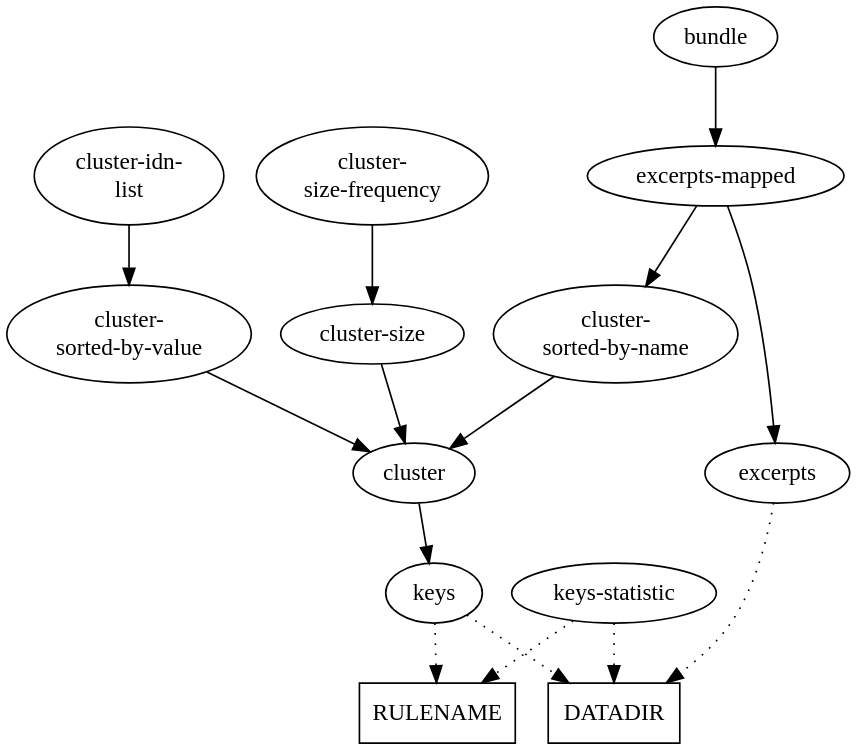
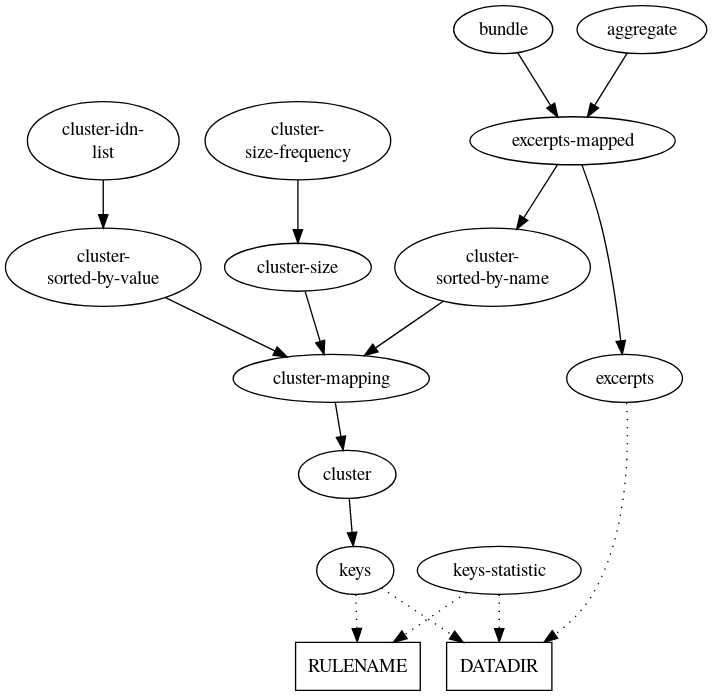
Update workflow

diff --git a/workflow-stub/README.md b/workflow-stub/README.md
@@ -29,18 +29,18 @@ make help
 ```
 
 ```bash
+# Build every possible target
+make all RULENAME=wrk DATADIR=/opt/data
+```
+
+```bash
 # Compute keys
 make keys RULENAME=wrk DATADIR=/opt/data
 ```
 
 ```bash
-# Compute keys-statistic
-make keys-statistic RULENAME=wrk DATADIR=/opt/data
-```
-
-```bash
-# Compute cluster (sorted by name)
-make cluster-sorted-by-name RULENAME=wrk DATADIR=/opt/data
+# Compute cluster-mapping
+make cluster-mapping RULENAME=wrk DATADIR=/opt/data
 ```
 
 ```bash
@@ -49,8 +49,8 @@ make cluster-idn-list RULENAME=wrk DATADIR=/opt/data
 ```
 
 ```bash
-# Build XML with bundles excerpts
-make bundle RULENAME=wrk DATADIR=/opt/data
+# Build export XML
+make aggregate RULENAME=wrk DATADIR=/opt/data
 ```
 
 ## Options
@@ -61,15 +61,15 @@ Each target creates a file or runs multiple dependencies.
 | --- | --- |
 | all | Build all possible targets. |
 | keys | Constructs (match-)keys for each record. |
-| cluster | Maps related records into clusters. |
-| bundle | Constructs a XML file that contains grouped MARCXML excerpts according to the computed clustering. |
-| solr | Constructs a XML file that contains index updates for Apache Solr. One file contains documents, the other contains document updates with cluster tags. |
-
+| cluster-mapping | Filters the previously computed clustering. Maps record ids to cluster ids. |
+| bundle | XML file that contains cluster information (a so-called *bundle*). Each cluster element contains all records found in the corresponding cluster. The record information are limited to an excerpt. |
+| aggregate | MARCXML file that contains one record element per cluster. Each record element aggregates the information of all records in a cluster. The record information are limited to an excerpt. |
 
 There are also the following targets available:
 
 | Target | Description |
 | --- | --- |
+| cluster | Build a graph based on the output of *keys*. A breadth first search computes all connected components (so-called *cluster*). Outputs the bfs-graph as GraphML file.
 | cluster-idn-list | Build a file that collects the ids for each cluster. One cluster per line. |
 | cluster-size | Builds a table that contains the cluster number and the corresponding cluster size. |
 | cluster-size-frequency | Builds a table that contains the cluster size and the corresponding frequency. |
@@ -112,6 +112,7 @@ digraph Makefile {
     ]
     
     keys_statistic [ label = "keys-statistic" ]
+    cluster_mapping [ label = "cluster-mapping" ]
     cluster_sorted_by_name [ label = "cluster-\nsorted-by-name" ]
     cluster_sorted_by_value [ label = "cluster-\nsorted-by-value" ]
     cluster_idn_list [ label = "cluster-idn-\nlist" ]
@@ -125,14 +126,16 @@ digraph Makefile {
     keys_statistic -> rulename [ style = dotted ]
 
     cluster -> keys
-    cluster_sorted_by_name -> cluster
-    cluster_sorted_by_value -> cluster
+    cluster_mapping -> cluster
+    cluster_sorted_by_name -> cluster_mapping
+    cluster_sorted_by_value -> cluster_mapping
     cluster_idn_list -> cluster_sorted_by_value
-    cluster_size -> cluster
+    cluster_size -> cluster_mapping
     cluster_size_frequencey -> cluster_size
     
     excerpts -> datadir [ style = dotted ]
     excerpts_mapped -> excerpts, cluster_sorted_by_name
     bundle -> excerpts_mapped
+    aggregate -> excerpts_mapped
 }
 ```
